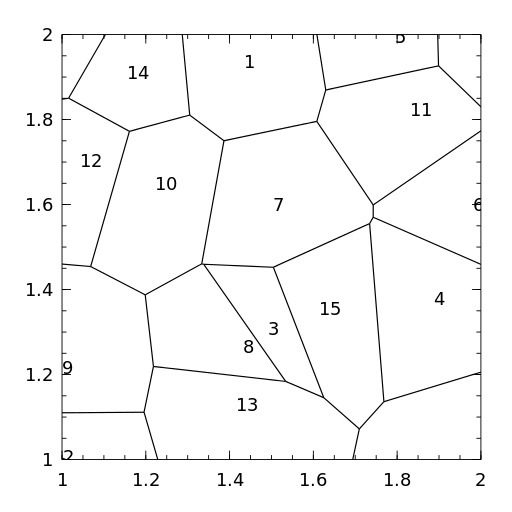
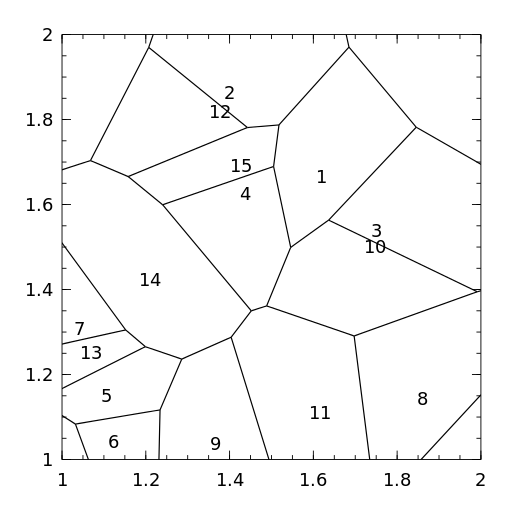
Updating documentation
New figures and more explanations

diff --git a/doc/remove_bounding_box.md b/doc/remove_bounding_box.md
@@ -5,7 +5,7 @@ Removing the corners of the bounding box
 
 In VoronoiDelaunay all generators reside inside the square [1,2]x[1,2] and the four corners of this square are always included as generators.
 This of course adds four extra cells (here denoted "corner cells") to the tessellation and the cells bordering the corner cells are *incorrect*.
-In the example below the cells belonging to the points 2, 4, 5, 11, 12, 13, 14, 15 are affected.
+In the example below the cells belonging to the points 1, 2, 3 (upper right), 2, 12, 14 (upper left), 5, 6 (lower left) and 8 (lower right) are affected.
 
 ![Tesselation with corner generators](tess_corner.png)
 
@@ -22,4 +22,8 @@ Transforming the generators and their Voronoi cells back to the full square [1,2
 ![Correct Voronoi tessellation](tess_nocorner.png)
 
 The line segments making up the Voronoi cells are a priori not restricted to the bounding box and *VoronoiCells* use the [Liang-Barsky algorithm](https://en.wikipedia.org/wiki/Liang%E2%80%93Barsky_algorithm) to compute the intersection between a line segment and the bounding box.
+
+One final correction after computing the correct line segments is to assign the corners to the correct cells.
+In the examples above the upper right corner belongs the cell of point 1. 
+This is determined by keeping track of the cells neighboring the corner points during the line segment computation and afterwards determine the appropriate generator by calculating the distance between a corner and each of its former neighbor generators.
 
